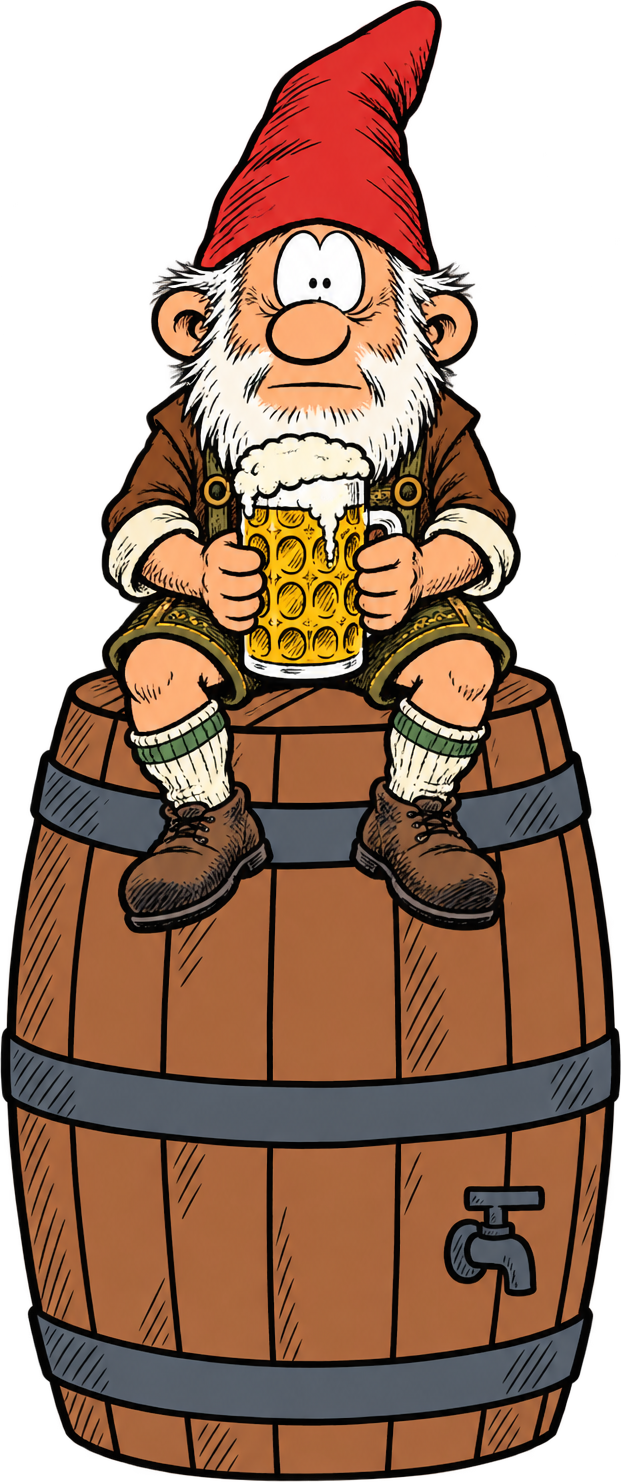
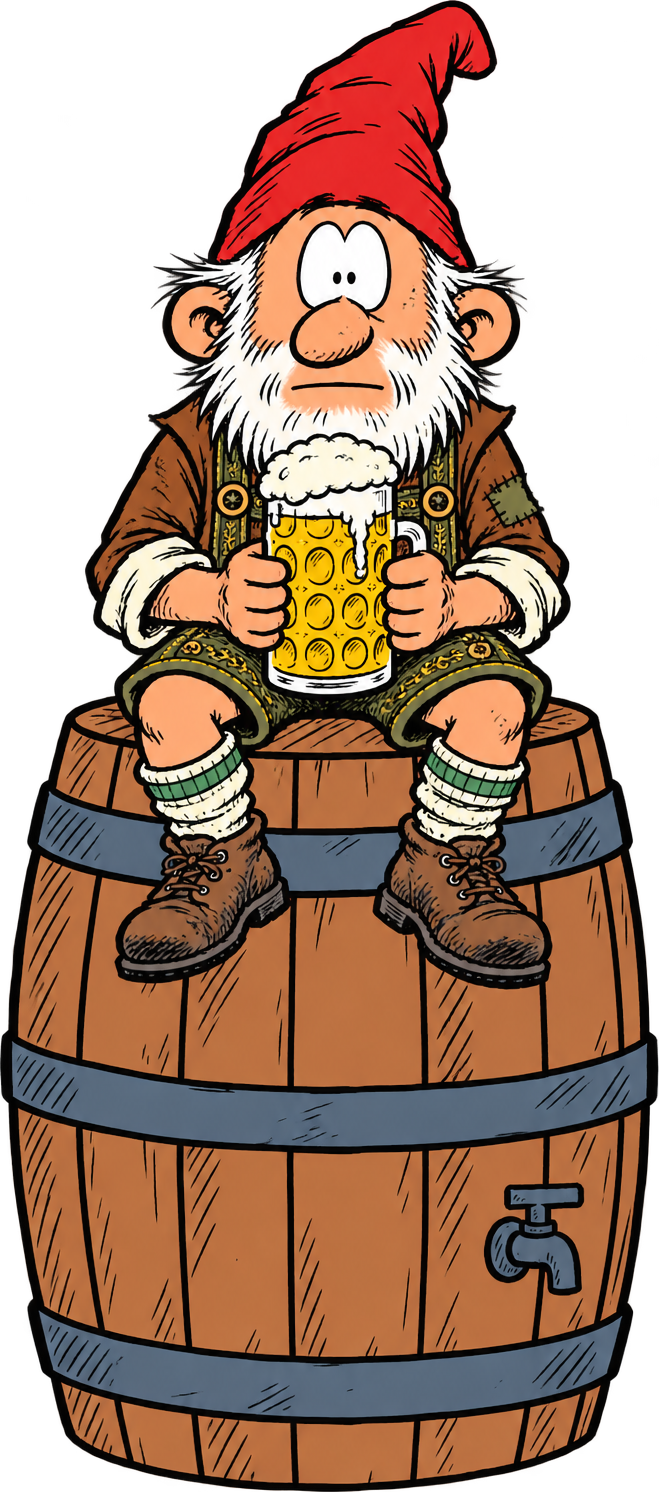
Settings: the gnome redrawn rougher with a simpler face and more detailed clothes
Claude-Session: https://claude.ai/code/session_01GrbNTwVienMcpmsk1Pgq12

diff --git a/guides/DESIGNER_MANUAL.md b/guides/DESIGNER_MANUAL.md
@@ -7712,7 +7712,7 @@ Settings screen, which uses the same sign since 20 Oct 2026 instead of its old
 written title; its page and dark box start below the sign). Any screen can use
 it: `SignHeader.make(words)` in code. Since 20 Oct 2026 the Settings background is the
 drawn cellar `assets/ui/settings/drawn/01_cellar.png` (r108/r109, no ceiling beams); the
-old pixel barrels and gnome are removed (Anthony 20 Oct); one drawn barrel (`drawn/barrel.png`, r111) stands on the floor by the left wall, with a gnome and his beer sitting on it staring at the player (`drawn/barrel_gnome.png`, r112, the one in use). `tools/settings_bare_shot.gd` photographs
+old pixel barrels and gnome are removed (Anthony 20 Oct); one drawn barrel (`drawn/barrel.png`, r111) stands on the floor by the left wall, with a gnome and his beer sitting on it staring at the player (`drawn/barrel_gnome.png`, r112, redrawn rougher in r113, the one in use). `tools/settings_bare_shot.gd` photographs
 the Settings background on its own.
 
 The three mugs ARE the save files, set in **`data/SaveMugs.csv`**:
